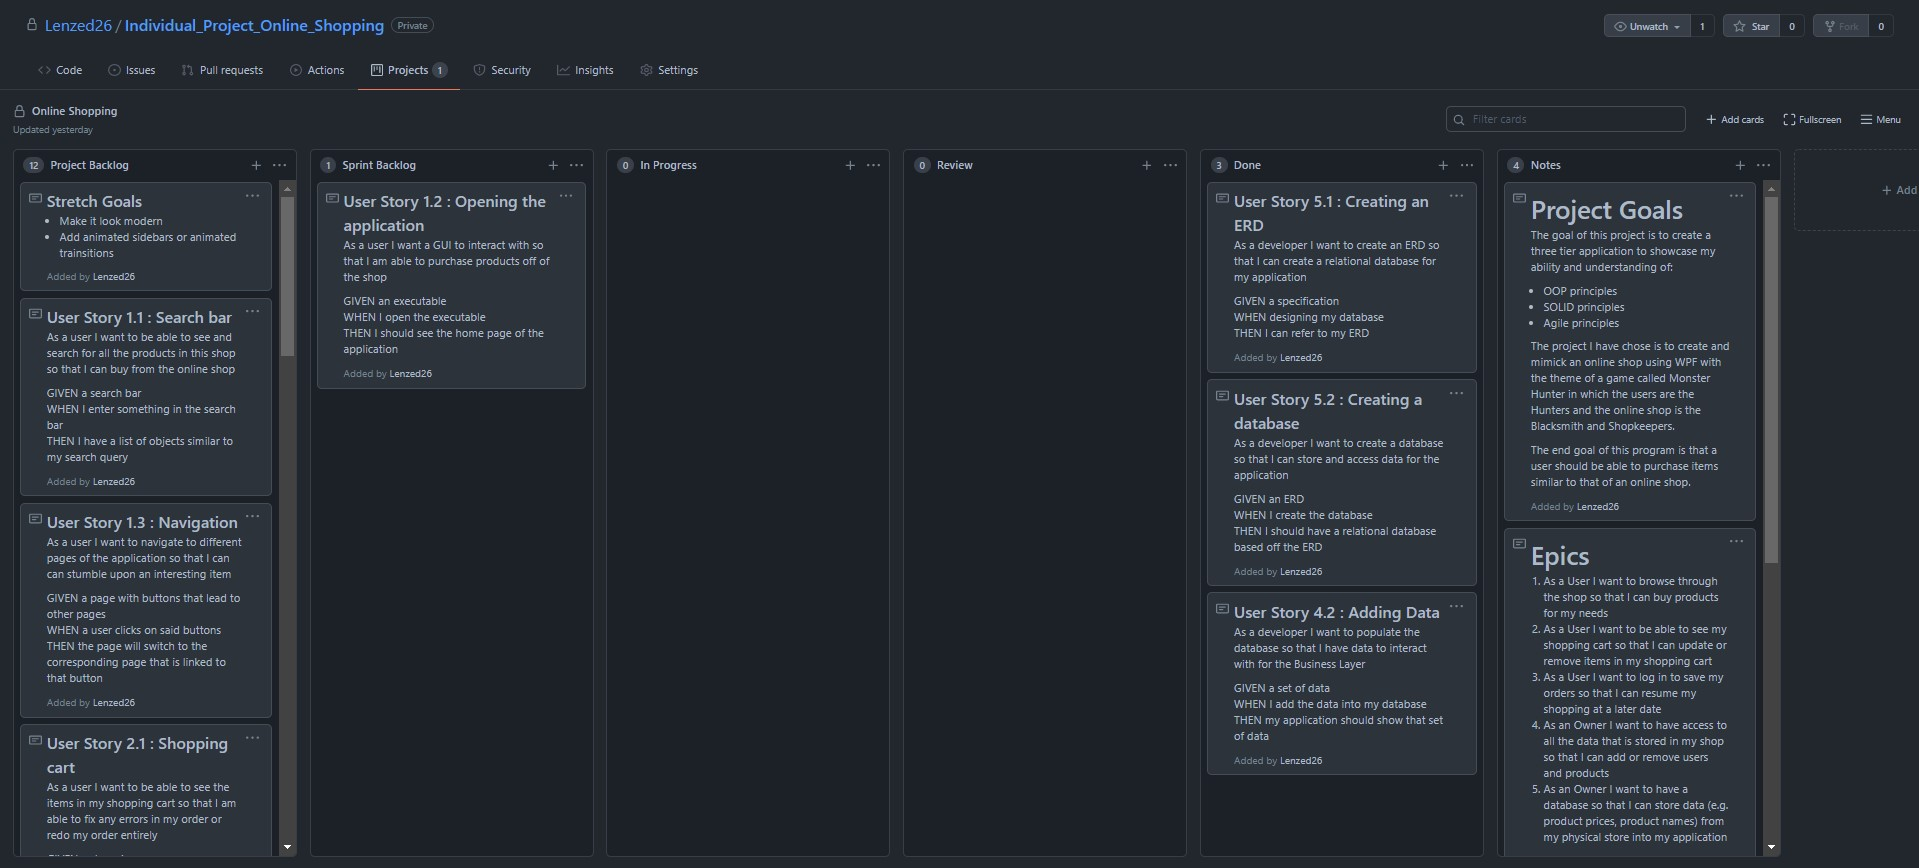
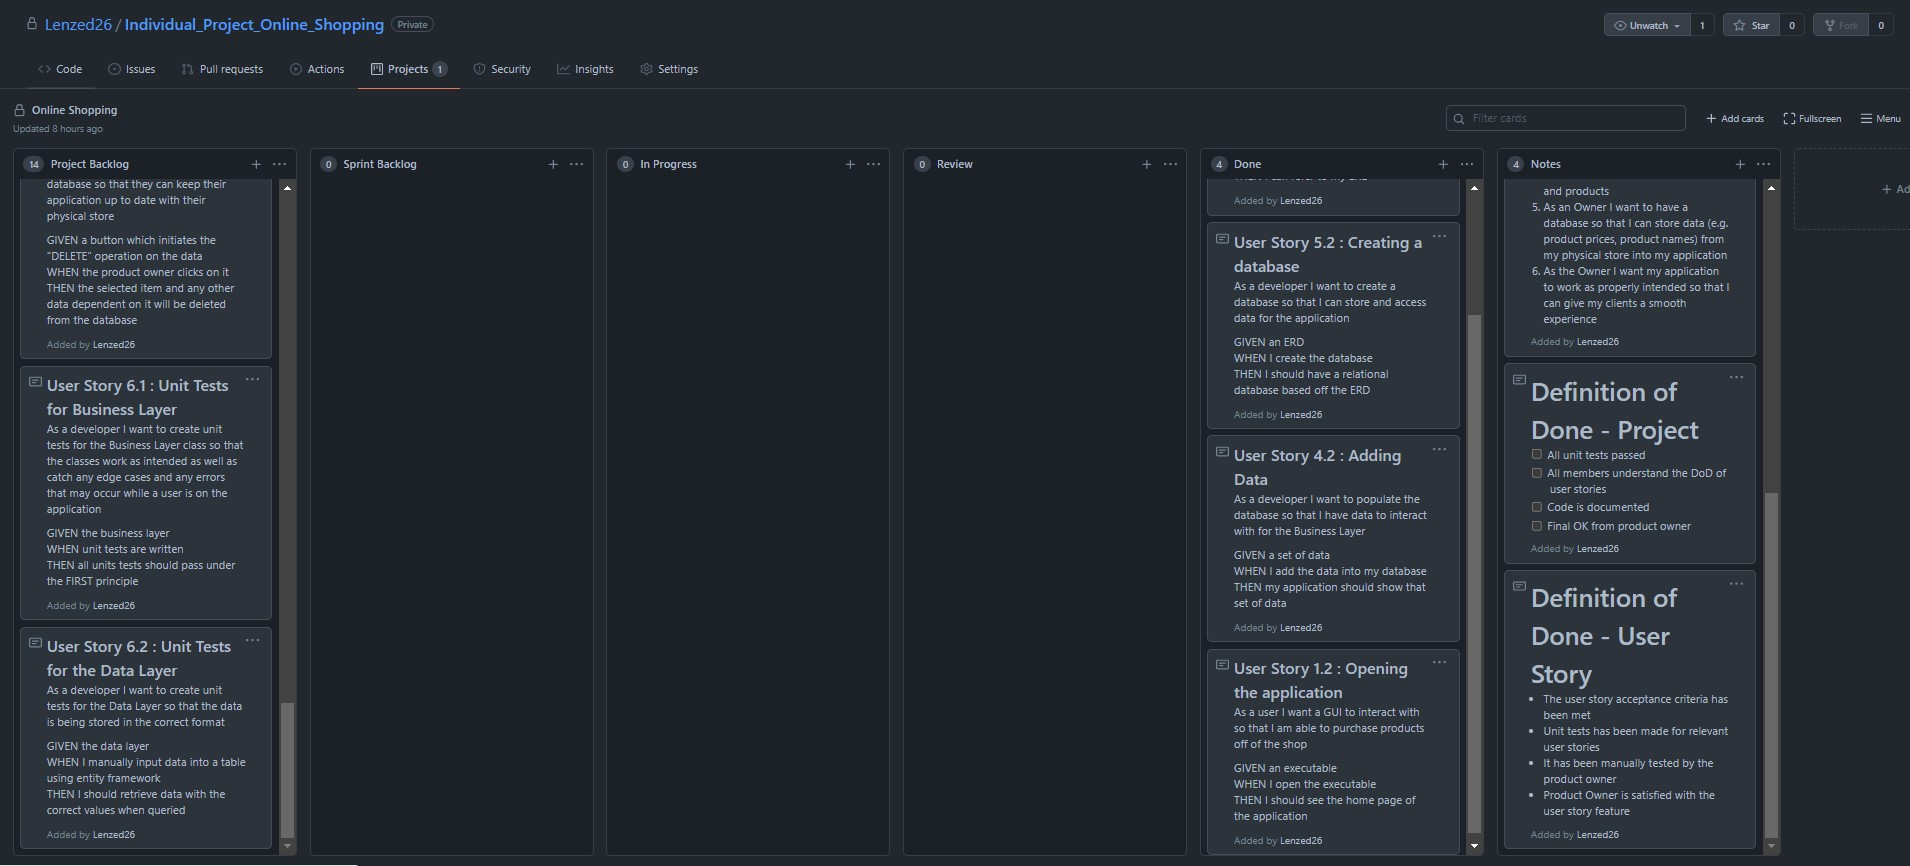
Updated project progress to include sprint review

diff --git a/Project Progress.md b/Project Progress.md
@@ -2,7 +2,16 @@
 
 ### Table of Contents
 
+- [Sprint 0](#sprint-0)
 - [Sprint 1](#sprint-1)
+
+### Sprint 0
+
+ERD
+
+![](/Images/MonsterHunterShopERD.jpg)
+
+Wireframe
 
 ### Sprint 1
 
@@ -15,11 +24,11 @@ Goals for this sprint are:
 
 Before Sprint start
 
-![](../Images/Sprint1Goals.jpg)
+![](/Images/Sprint1Goals.jpg)
 
 After Sprint start
 
-![](../Images/Sprint1GoalsAfter.jpg)
+![](/Images/Sprint1GoalsAfter.jpg)
 
 ### Sprint 1 Review
 
@@ -28,11 +37,16 @@ Goals completed:
 - [x] User Story 5.1 : Creating an ERD
 - [x] User Story 5.2 : Creating a Database
 - [x] User Story 4.2 : Adding Data
-- [ ] User Story 1.2 : Opening the application
-
-For User Story 1.2, completing this was blocked by the creating the database and adding data to the database user stories.
+- [x] User Story 1.2 : Opening the application
 
 Retrospective:
+
+The good:
+I predicted what I could do for this sprint and achieved all my goals within a good time frame. All goals have been met with the product owner being satisfied
+
+The bad:
+
+I definitely could have spent a shorter amount of time creating dummy data for my database and allocated more time into other parts of the user story such as the GUI.
 
 
 
